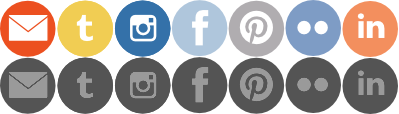
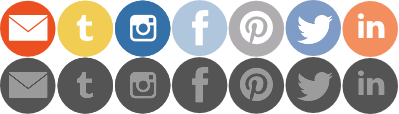
Add twitter in place of flickr

Changed region(s): [[0.7218, 0.1316, 0.8421, 0.3947], [0.7218, 0.6316, 0.8421, 0.8947]]

diff --git a/footer.php b/footer.php
@@ -47,7 +47,7 @@
 			<a href="http://www.instagram.com/caroleannctd" target="_blank" style="background-position-x: -2em;"></a>
 			<a href="https://www.facebook.com/caroleannctd" target="_blank" style="background-position-x: -3em;"></a>
 			<a href="http://www.pinterest.com/caroleannctd" target="_blank" style="background-position-x: -4em;"></a>
-			<a href="www.flickr.com/photos/connectthedotscrafts/" target="_blank" style="background-position-x: -5em;"></a>
+			<a href="http://twitter.com/caroleannctd" target="_blank" style="background-position-x: -5em;"></a>
 			<a href="http://lnkd.in/3J2vV8" target="_blank" style="background-position-x: -6em;"></a>
 		</aside>
 	</section>
